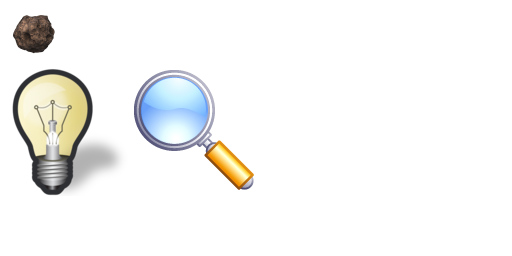
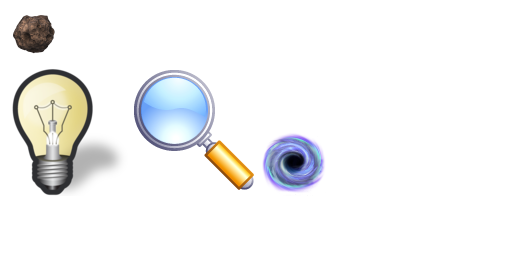
1. fixed texture locations 2. got rid of world to box

Changed region(s): [[0.5, 0.5, 0.6562, 0.75]]

diff --git a/desktop/data/level.js b/desktop/data/level.js
@@ -81,30 +81,30 @@
         	id: "Source",
             type: "K",
             shape: "rect",
-            x: -10,
-            y: -10,
-            w: 5,
-            h: 2,
+            x: 0,
+            y: 0,
+            w: 0.5,
+            h: 0.5,
             angle: 90
         },
         mMirrors: [{
             id: "1",
             type: "S",
             shape: "rect",
-            x: 10,
-            y: 10,
-            w: 2,
-            h: 5,
+            x: 5,
+            y: 5,
+            w: 0.5,
+            h: 0.5,
             fixedRotation: 1,
             fixedPosition: 1
         }, {
             id: "2",
             type: "S",
             shape: "rect",
-            x: 15,
-            y: 20,
-            w: 2,
-            h: 5,
+            x: -5,
+            y: 1,
+            w: 0.5,
+            h: 0.5,
             fixedRotation: 0,
             fixedPosition: 1
         }],
@@ -112,34 +112,34 @@
             id: "1",
             type: "S",
             shape: "circle",
-            x: -20,
-            y: -20,
-            r: 3
+            x: 5,
+            y: -5,
+            r: 1
         }, {
             id: "2",
             type: "S",
             shape: "circle",
-            x: -30,
-            y: -30,
-            r: 3
+            x: -3,
+            y: -3,
+            r: 1
         }],
         mBlackholes: [{
             id: "1",
             type: "S",
             shape: "circle",
-            x: 30,
-            y: 30,
-            r: 3,
-            ir: 30,
+            x: -8,
+            y: -6,
+            r: 1,
+            ir: 1,
             g: 4
         }, {
             id: "2",
             type: "S",
             shape: "circle",
-            x: 40,
-            y: 40,
-            r: 3,
-            ir: 10,
+            x: -6,
+            y: 4,
+            r: 1,
+            ir: 1,
             g: 2
         }]
     }]

diff --git a/core/src/com/mygdx/game/Level.java b/core/src/com/mygdx/game/Level.java
@@ -170,34 +170,26 @@ public class Level {
 	public void render(SpriteBatch batch) {
 		mSource.render(batch);
 		for (Asteroid a : mAsteroids) {
-//			a.render(batch);
+			a.render(batch);
 		}
 		for (Mirror m : mMirrors) {
-//			m.render(batch);
+			m.render(batch);
 		}
 		for (BlackHole b : mBlackholes) {
-//			b.render(batch);
+			b.render(batch);
 		}
-		
-		// planets
-		
-//		for(Entity m : mMirrors){
-//			m.render(batch);
-//		}
-//		laser.render(batch);
 	}
 
 	public void update(float deltaTime) {
-//		bunnyHead.update(deltaTime);
 		mSource.update(deltaTime);
 		for (Asteroid a : mAsteroids) {
-//			a.update(deltaTime);
+			a.update(deltaTime);
 		}
 		for (Mirror m : mMirrors) {
-//			m.update(deltaTime);
+			m.update(deltaTime);
 		}
 		for (BlackHole b : mBlackholes) {
-//			b.update(deltaTime);
+			b.update(deltaTime);
 		}
 //		for (Photon p : mPhotons) {
 //			p.update(deltaTime);
@@ -216,13 +208,12 @@ public class Level {
 				planetDistance.add(bulletPos);
 				planetDistance.sub(planetPosition);
 				float finalDistance = planetDistance.len();
-				if(finalDistance <= planetRadius*10.f) {
+				if(finalDistance <= planetRadius*2.f) {
 					planetDistance.scl(-1.f);
 					float vecSum = Math.abs(planetDistance.x) + Math.abs(planetDistance.y);
-					planetDistance.scl(0.5f*(1/vecSum)*planetRadius / finalDistance);
+					planetDistance.scl(5f*(1/vecSum)*planetRadius / finalDistance);
 					mPhotons.get(i).applyForce(planetDistance, mPhotons.get(i).getWorldCenter(),true);
 				}
-				
 			}
 		}
 	}
@@ -299,15 +290,15 @@ public class Level {
 		if(ed.shape.equalsIgnoreCase("rect"))
 		{
 			bodyShape = new PolygonShape();
-			((PolygonShape) bodyShape).setAsBox((w*0.5f)*Constants.WORLD_TO_BOX, h*0.5f*Constants.WORLD_TO_BOX);
+			((PolygonShape) bodyShape).setAsBox(w, h);
 		}
 		if(ed.shape.equalsIgnoreCase("circle"))
 		{
 			bodyShape = new CircleShape();
-			bodyShape.setRadius(r * Constants.WORLD_TO_BOX);
+			bodyShape.setRadius(r);
 		}
 		
-		bodyDef.position.set(x*Constants.WORLD_TO_BOX, y*Constants.WORLD_TO_BOX);
+		bodyDef.position.set(x, y);
 		bodyDef.angle = (float) ((ed.angle)*Constants.DEGTORAD);
 		bodyDef.fixedRotation = true;
 		
@@ -333,7 +324,7 @@ public class Level {
 		Body circleBody = world.createBody(circleDef);
 
 		CircleShape circleShape = new CircleShape(); 
-		circleShape.setRadius(2 * Constants.WORLD_TO_BOX);
+		circleShape.setRadius(0.3f);
 
 		FixtureDef circleFixture = new FixtureDef(); 
 		circleFixture.shape = circleShape; 

diff --git a/core/src/com/mygdx/game/Laser.java b/core/src/com/mygdx/game/Laser.java
@@ -5,6 +5,7 @@ import java.util.ArrayList;
 import com.badlogic.gdx.Gdx;
 import com.badlogic.gdx.graphics.g2d.SpriteBatch;
 import com.badlogic.gdx.graphics.g2d.TextureRegion;
+import com.badlogic.gdx.math.MathUtils;
 import com.badlogic.gdx.math.Vector2;
 import com.badlogic.gdx.math.Vector3;
 import com.badlogic.gdx.physics.box2d.Body;
@@ -26,18 +27,19 @@ public class Laser extends Entity{
 	}
 	
 	private void init(){
-		regLaser = Assets.instance.laser.laser;		
-//		dimension.set(new Vector2(0.5f, 0.5f));
+		regLaser = Assets.instance.laser.laser;
+		origin.set(size.x, size.y);
 	}
 	
 	@Override
 	public void render(SpriteBatch batch){
 		TextureRegion reg = null;
 		reg = regLaser;
+		
 		batch.draw(reg.getTexture(), 
-					pos.x , pos.y, 
+					pos.x - origin.x, pos.y - origin.y, 
 					origin.x, origin.y, 
-					dimension.x, dimension.y, 
+					size.x*2, size.y*2, 
 					scale.x, scale.y, 
 					angle,
 					reg.getRegionX(), reg.getRegionY(),
@@ -52,14 +54,15 @@ public class Laser extends Entity{
 	
 	public void shoot(float x, float y, int pointer, World w){		
 		float fireRadius= (float)(this.getSize().x * 0.5);
-		Vector2 dir = new Vector2(x*Constants.WORLD_TO_BOX*fireRadius, y*Constants.WORLD_TO_BOX*fireRadius);
+		Vector2 dir = new Vector2(x*fireRadius, y*fireRadius);
 		Vector2 firePoint = dir.add(this.getPhysicsBody().getWorldCenter());
 		float dx = x - this.getPhysicsBody().getWorldCenter().x;
 		float dy = y - this.getPhysicsBody().getWorldCenter().y;
 		float angle = (float)Math.atan2(dy,dx);
+		this.angle = angle * MathUtils.radiansToDegrees;
 		this.getPhysicsBody().setTransform(this.getPhysicsBody().getWorldCenter(), angle);
 		Body circleBody = Level.createPhysicsBody(firePoint, w);
-		circleBody.applyLinearImpulse(x * Constants.WORLD_TO_BOX, y * Constants.WORLD_TO_BOX, circleBody.getWorldCenter().x, circleBody.getWorldCenter().y, true);
+		circleBody.applyLinearImpulse(x, y, circleBody.getWorldCenter().x, circleBody.getWorldCenter().y, true);
 		
 		Level.mPhotons.add(circleBody);
 	}

diff --git a/core/src/com/mygdx/game/Assets.java b/core/src/com/mygdx/game/Assets.java
@@ -17,6 +17,7 @@ public class Assets implements Disposable, AssetErrorListener {
 	public AssetMirror mirror;
 	public AssetLaser laser;
 	public AssetAsteroid asteroid;
+	public AssetBlackHole blackhole;
 	// public AssetRock rock;
 	// public AssetGoldCoin goldCoin;
 	// public AssetFeather feather;
@@ -52,6 +53,7 @@ public class Assets implements Disposable, AssetErrorListener {
 		mirror = new AssetMirror(atlas);
 		laser = new AssetLaser(atlas);
 		asteroid = new AssetAsteroid(atlas);
+		blackhole = new AssetBlackHole(atlas);
 		// goldCoin = new AssetGoldCoin(atlas);
 		// feather = new AssetFeather(atlas);
 		// levelDecoration = new AssetLevelDecoration(atlas);
@@ -92,6 +94,14 @@ public class Assets implements Disposable, AssetErrorListener {
 		
 		public AssetAsteroid(TextureAtlas atlas){
 			asteroid = atlas.findRegion("asteroid");
+		}
+	}
+	
+	public class AssetBlackHole{
+		public final AtlasRegion blackhole;
+		
+		public AssetBlackHole(TextureAtlas atlas){
+			blackhole = atlas.findRegion("blackhole");
 		}
 	}
 

diff --git a/core/src/com/mygdx/game/Asteroid.java b/core/src/com/mygdx/game/Asteroid.java
@@ -24,19 +24,18 @@ public class Asteroid extends Entity{
 	
 	private void init(){
 		regAsteroid = Assets.instance.asteroid.asteroid;
-		dimension.set(new Vector2(0.5f, 0.5f));
-//		this.getp
+		origin.set(radius, radius);
 	}
 	
 	@Override
 	public void render(SpriteBatch batch){
-		
+		///Gdx.app.debug("asteroid", String.valueOf(pos.x) + '-' + String.valueOf(origin.x));
 		TextureRegion reg = null;
 		reg = regAsteroid;
 		batch.draw(reg.getTexture(), 
-					pos.x , pos.y, 
-					origin.x, origin.y, 
-					dimension.x, dimension.y, 
+					pos.x - origin.x, pos.y - origin.y,
+					origin.x*2, origin.y*2,
+					radius*2, radius*2, 
 					scale.x, scale.y, 
 					angle,
 					reg.getRegionX(), reg.getRegionY(),

diff --git a/core/src/com/mygdx/game/Mirror.java b/core/src/com/mygdx/game/Mirror.java
@@ -23,7 +23,7 @@ public class Mirror extends Entity{
 	
 	private void init(){
 		regMirror = Assets.instance.mirror.mirror;
-		dimension.set(new Vector2(0.5f, 0.5f));
+		origin.set(size.x, size.y);
 	}
 	
 	@Override
@@ -31,10 +31,10 @@ public class Mirror extends Entity{
 		TextureRegion reg = null;
 		reg = regMirror;
 		batch.draw(reg.getTexture(),
-					pos.x , pos.y,
+					pos.x - origin.x, pos.y - origin.y, 
 					origin.x, origin.y, 
-					dimension.x, dimension.y, 
-					scale.x, scale.y,
+					size.x*2, size.y*2, 
+					scale.x, scale.y, 
 					angle,
 					reg.getRegionX(), reg.getRegionY(),
 					reg.getRegionWidth(), reg.getRegionHeight(),

diff --git a/core/src/com/mygdx/game/BlackHole.java b/core/src/com/mygdx/game/BlackHole.java
@@ -22,8 +22,8 @@ public class BlackHole extends Entity{
 	}
 	
 	private void init(){
-		regBlackHole = Assets.instance.asteroid.asteroid;
-		dimension.set(new Vector2(0.5f, 0.5f));
+		regBlackHole = Assets.instance.blackhole.blackhole;
+		origin.set(radius, radius);
 	}
 	
 	@Override
@@ -31,9 +31,9 @@ public class BlackHole extends Entity{
 		TextureRegion reg = null;
 		reg = regBlackHole;
 		batch.draw(reg.getTexture(), 
-					pos.x , pos.y, 
+					pos.x - origin.x, pos.y - origin.y,
 					origin.x, origin.y, 
-					dimension.x, dimension.y, 
+					radius*2, radius*2,
 					scale.x, scale.y, 
 					angle,
 					reg.getRegionX(), reg.getRegionY(),

diff --git a/core/src/com/mygdx/game/Photon.java b/core/src/com/mygdx/game/Photon.java
@@ -24,7 +24,7 @@ public class Photon extends Entity{
 	private void init(){
 //		need to change the below to photon
 		regAsteroid = Assets.instance.asteroid.asteroid;
-		dimension.set(new Vector2(0.5f, 0.5f));
+		origin.set(size.x / 2, size.y / 2);
 	}
 	
 	@Override
@@ -33,9 +33,9 @@ public class Photon extends Entity{
 		TextureRegion reg = null;
 		reg = regAsteroid;
 		batch.draw(reg.getTexture(), 
-					pos.x , pos.y, 
+					pos.x - origin.x, pos.y - origin.y, 
 					origin.x, origin.y, 
-					dimension.x, dimension.y, 
+					size.x, size.y, 
 					scale.x, scale.y, 
 					angle,
 					reg.getRegionX(), reg.getRegionY(),

diff --git a/core/src/com/mygdx/game/Earth.java b/core/src/com/mygdx/game/Earth.java
@@ -24,7 +24,7 @@ public class Earth extends Entity{
 	private void init(){
 //		need to change the below to Earth
 		regAsteroid = Assets.instance.asteroid.asteroid;
-		dimension.set(new Vector2(0.5f, 0.5f));
+//		origin.set(size.x / 2, size.y / 2);
 	}
 	
 	@Override
@@ -33,9 +33,9 @@ public class Earth extends Entity{
 		TextureRegion reg = null;
 		reg = regAsteroid;
 		batch.draw(reg.getTexture(), 
-					pos.x , pos.y, 
+					pos.x, pos.y, 
 					origin.x, origin.y, 
-					dimension.x, dimension.y, 
+					size.x, size.y, 
 					scale.x, scale.y, 
 					angle,
 					reg.getRegionX(), reg.getRegionY(),

diff --git a/core/src/com/mygdx/game/Entity.java b/core/src/com/mygdx/game/Entity.java
@@ -23,7 +23,7 @@ public abstract class Entity {
 	public Entity(){
 		this.pos = new Vector2();
 		this.size = new Vector2(1,1);
-		this.origin = new Vector2();
+		this.origin = new Vector2(1,1);
 		this.dimension = new Vector2(1,1);
 		this.scale = new Vector2(1,1);
 		this.angle = 0;
@@ -37,7 +37,7 @@ public abstract class Entity {
 		this.angle = ed.angle;
 		this.fixedPosition = ed.fixedPosition;
 		this.fixedRotation = ed.fixedRotation;
-		this.origin = new Vector2();
+		this.origin = new Vector2(0,0);
 		this.dimension = new Vector2(1,1);
 		this.scale = new Vector2(1,1);
 	}
